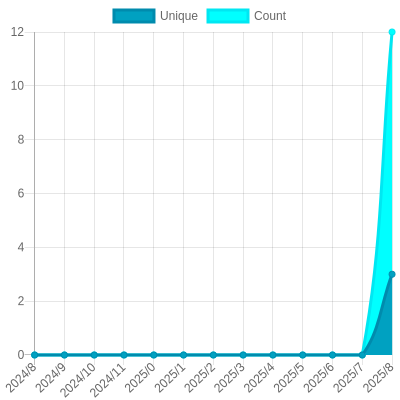
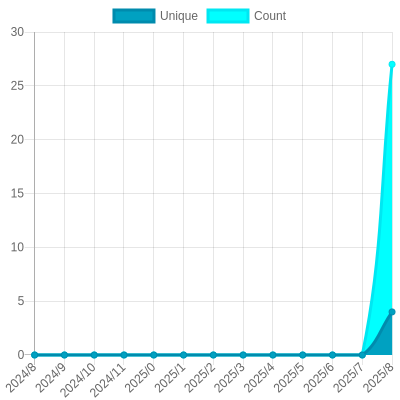
Update views

diff --git a/README.md b/README.md
@@ -26,18 +26,18 @@ The project created and maintained by [gayanvoice](https://github.com/gayanvoice
 			</a>
 		</td>
 		<td>
-			2024/9/24 2:32 PM UTC
+			2024/9/25 12:00 AM UTC
 		</td>
 		<td>
-			3
+			4
 		</td>
 		<td>
-			<img alt="Response time graph" src="https://github.com/nawbc/profile-visitors/raw/master/graph/320593293/small/year.png" height="20"> 12
+			<img alt="Response time graph" src="https://github.com/nawbc/profile-visitors/raw/master/graph/320593293/small/year.png" height="20"> 18
 		</td>
 	</tr>
 </table>
 
-<small><i>Last updated on 2024/9/27 2:32 PM UTC</i></small>
+<small><i>Last updated on 2024/9/27 6:09 PM UTC</i></small>
 
 ## ✂Copy and 📋 Paste
 ### Total Views Badge

diff --git a/readme/320593293/year.md b/readme/320593293/year.md
@@ -23,10 +23,10 @@
 			<code>2024/9/1</code>
 		</td>
 		<td>
-			<code>3</code>
+			<code>4</code>
 		</td>
 		<td>
-			<code>12</code>
+			<code>27</code>
 		</td>
 	</tr>
 	<tr>
@@ -164,7 +164,7 @@
 </table>
 
 </details>
-<small><i>Last updated on 2024/9/27 2:32 PM UTC</i></small>
+<small><i>Last updated on 2024/9/27 6:09 PM UTC</i></small>
 
 ## ✂Copy and 📋 Paste
 ### SVG Badge
